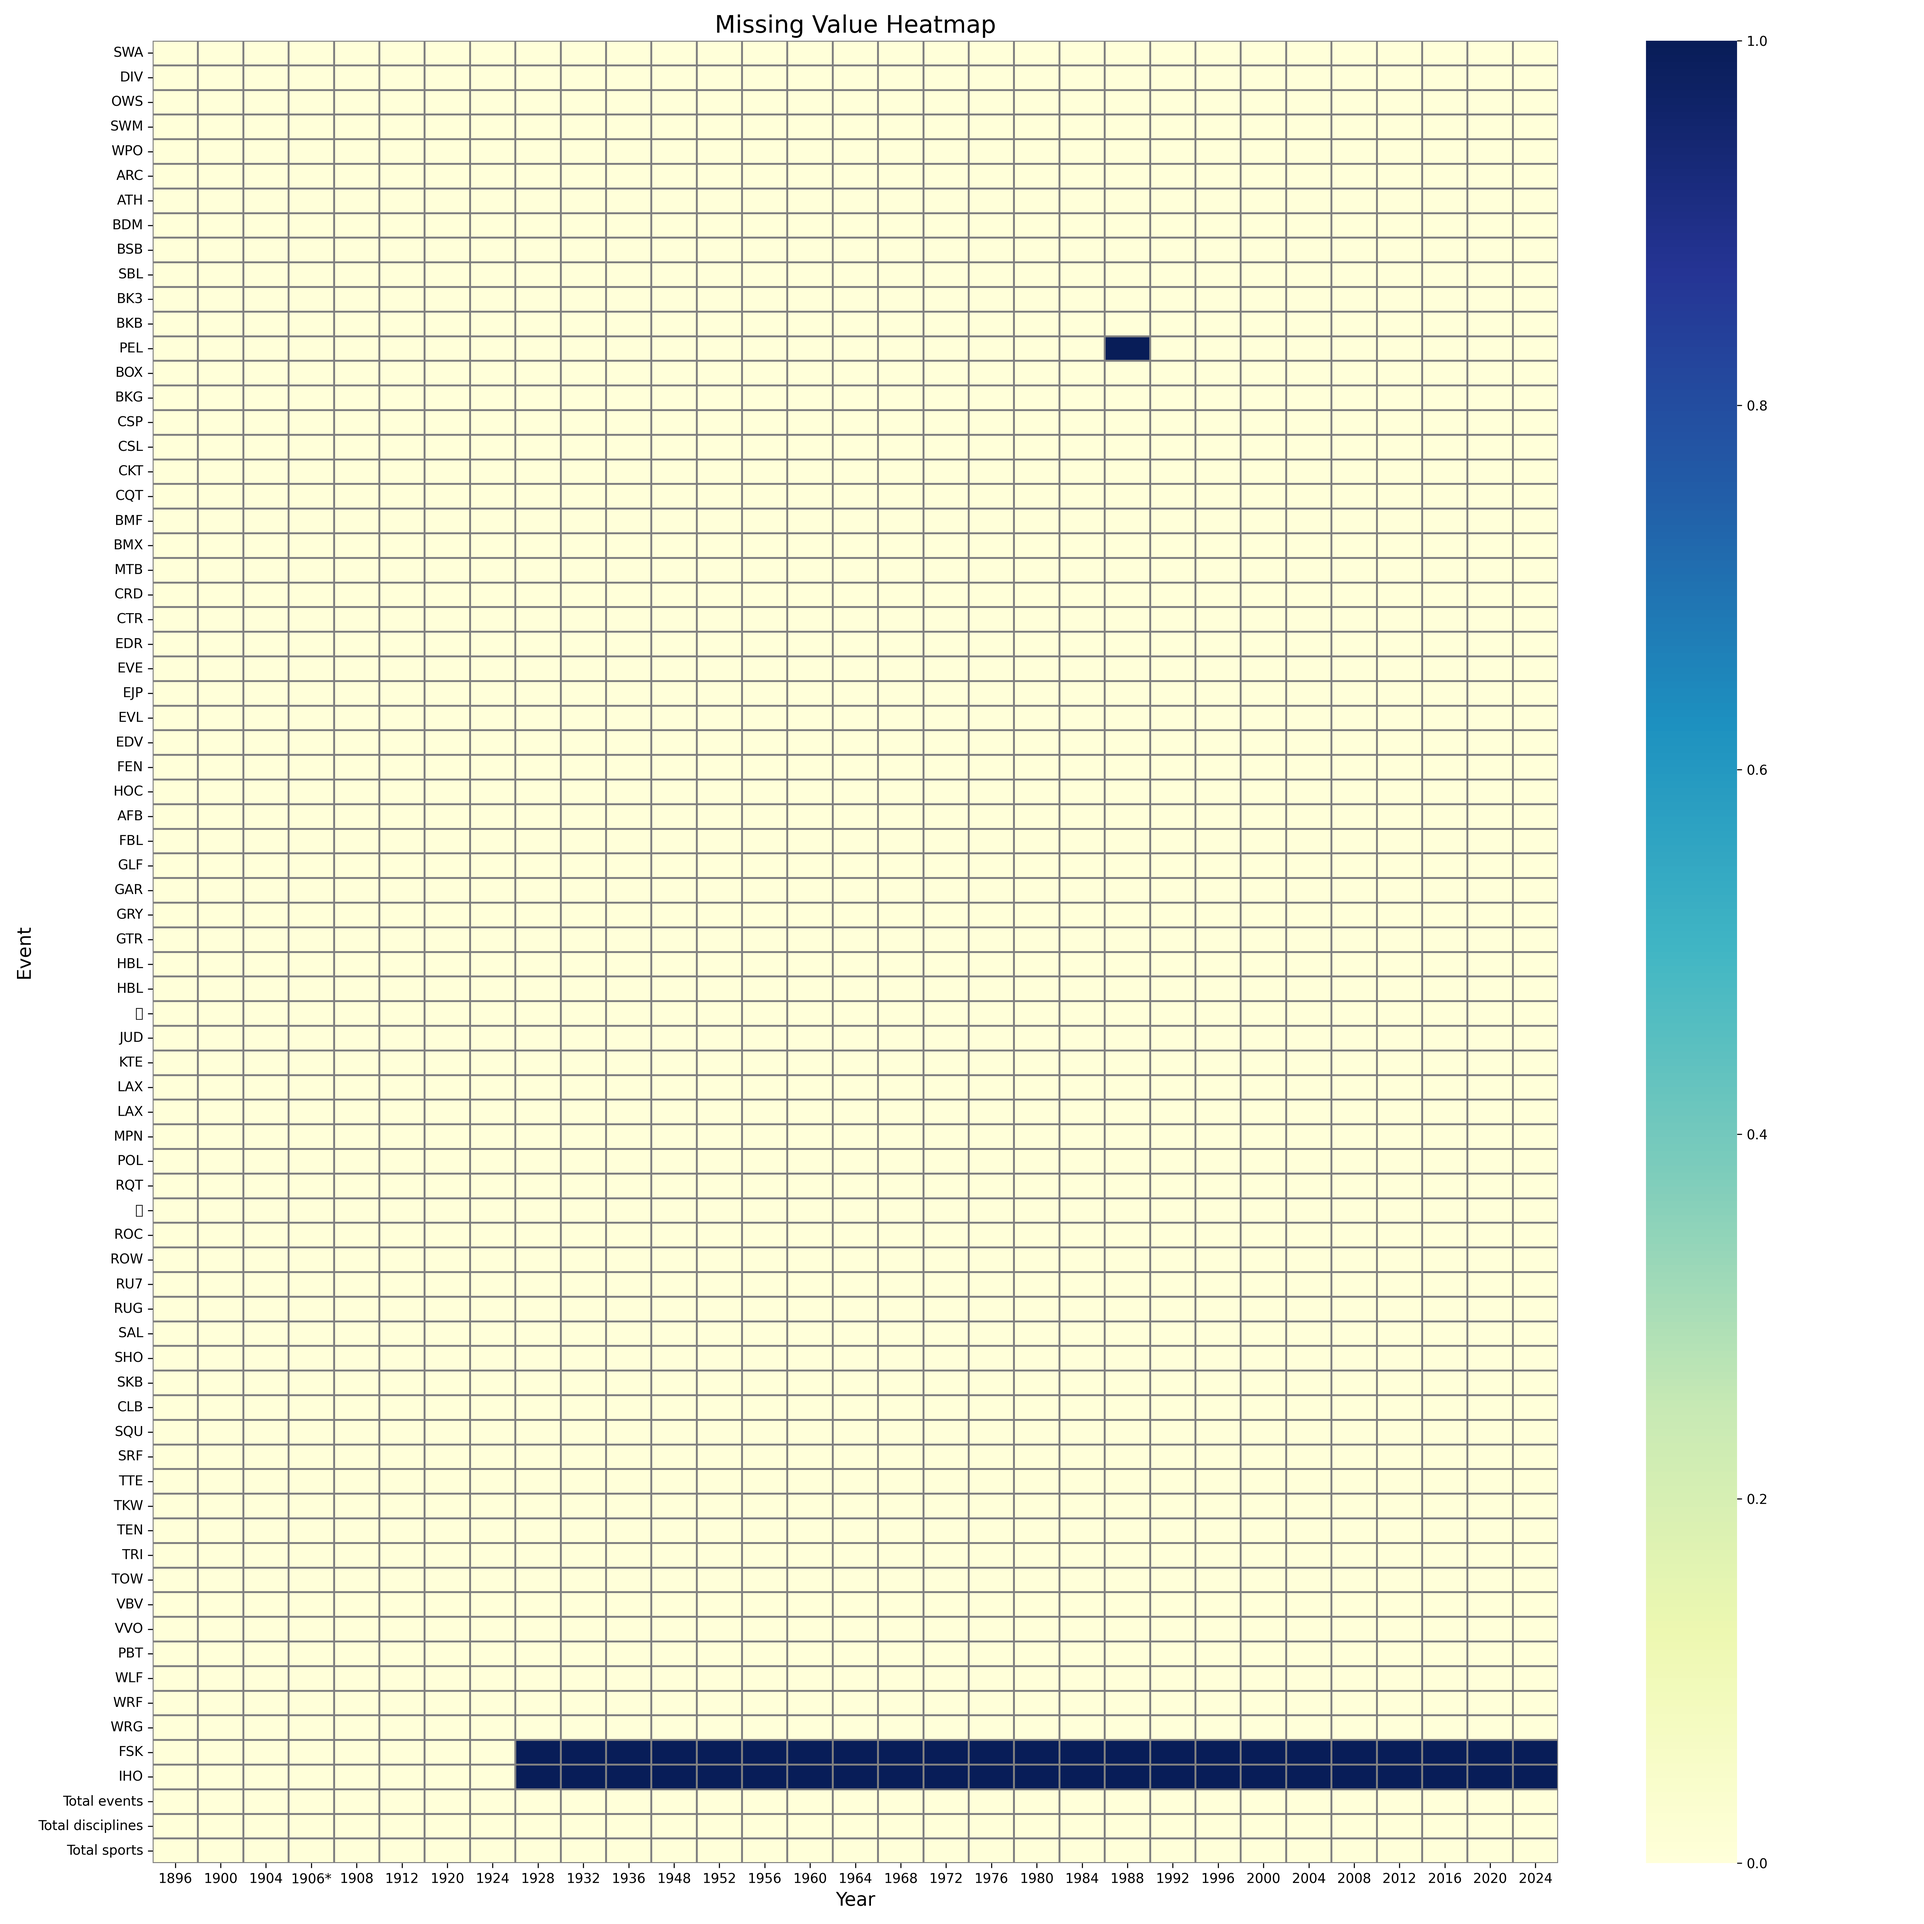
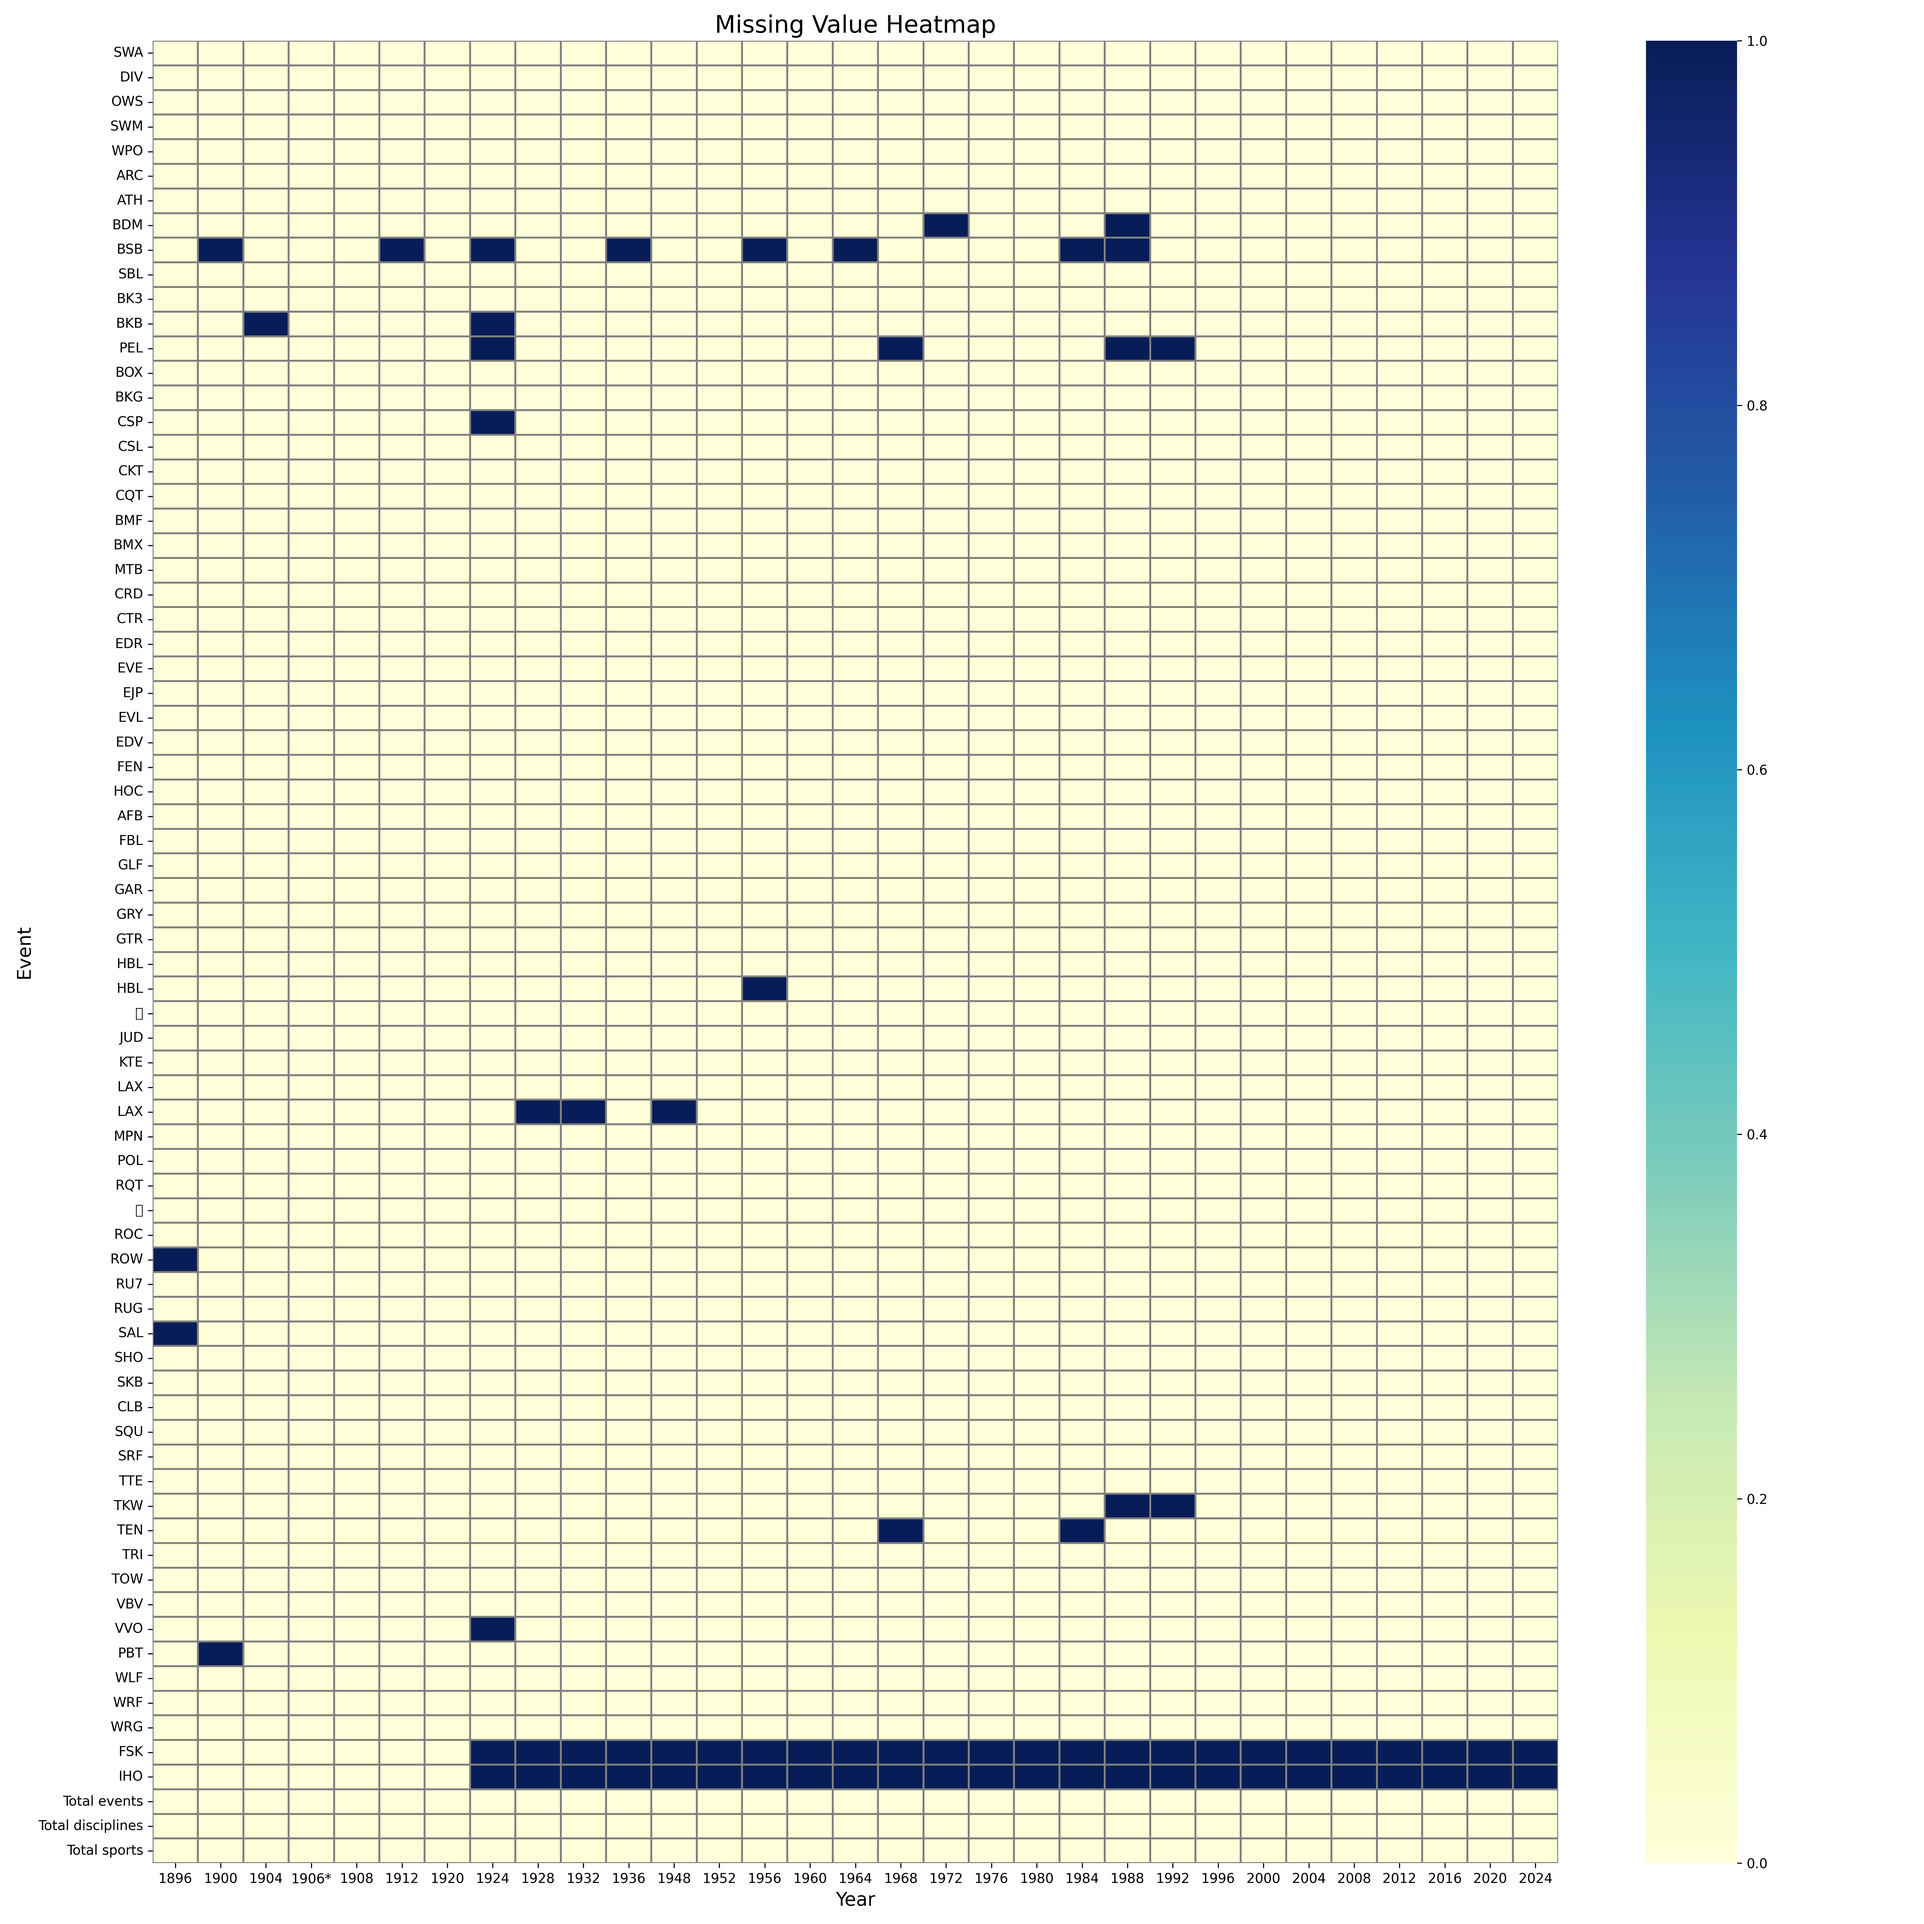
OlyEvent_Missing_Value部分修正

diff --git a/src/OlyEvent_Missing_Value/Missing_Value_Event.py b/src/OlyEvent_Missing_Value/Missing_Value_Event.py
@@ -1,18 +1,30 @@
 import pandas as pd
 import matplotlib.pyplot as plt
 import seaborn as sns
+import numpy as np
 
 # 读取Excel文件
 file_path = r'C:\Users\cyz13\PycharmProjects\AI_ClassProject\src\raw_data_processing\summerOly_programs.xlsx'
 df = pd.read_excel(file_path)
 
-# 只保留Code和后面的年份数据
+# 只保留Code和年份数据
 df_years = df.loc[:, [df.columns[2]] + list(df.columns[4:])]
 
-# 设置宽高一样（比如20x20）
-plt.figure(figsize=(20, 20))  # 宽和高相等即可
+# 统一将不是数字的值（无法转为float的）视为缺失值
+def is_number_or_nan(x):
+    try:
+        float(x)
+        return x
+    except:
+        return np.nan
 
-# 不加square=True
+# 对除第一列外的所有值进行清洗
+df_years.iloc[:, 1:] = df_years.iloc[:, 1:].applymap(is_number_or_nan)
+
+# 设置图像尺寸
+plt.figure(figsize=(20, 20))
+
+# 绘制缺失值热力图
 sns.heatmap(
     df_years.iloc[:, 1:].isnull(),
     cbar=True,
